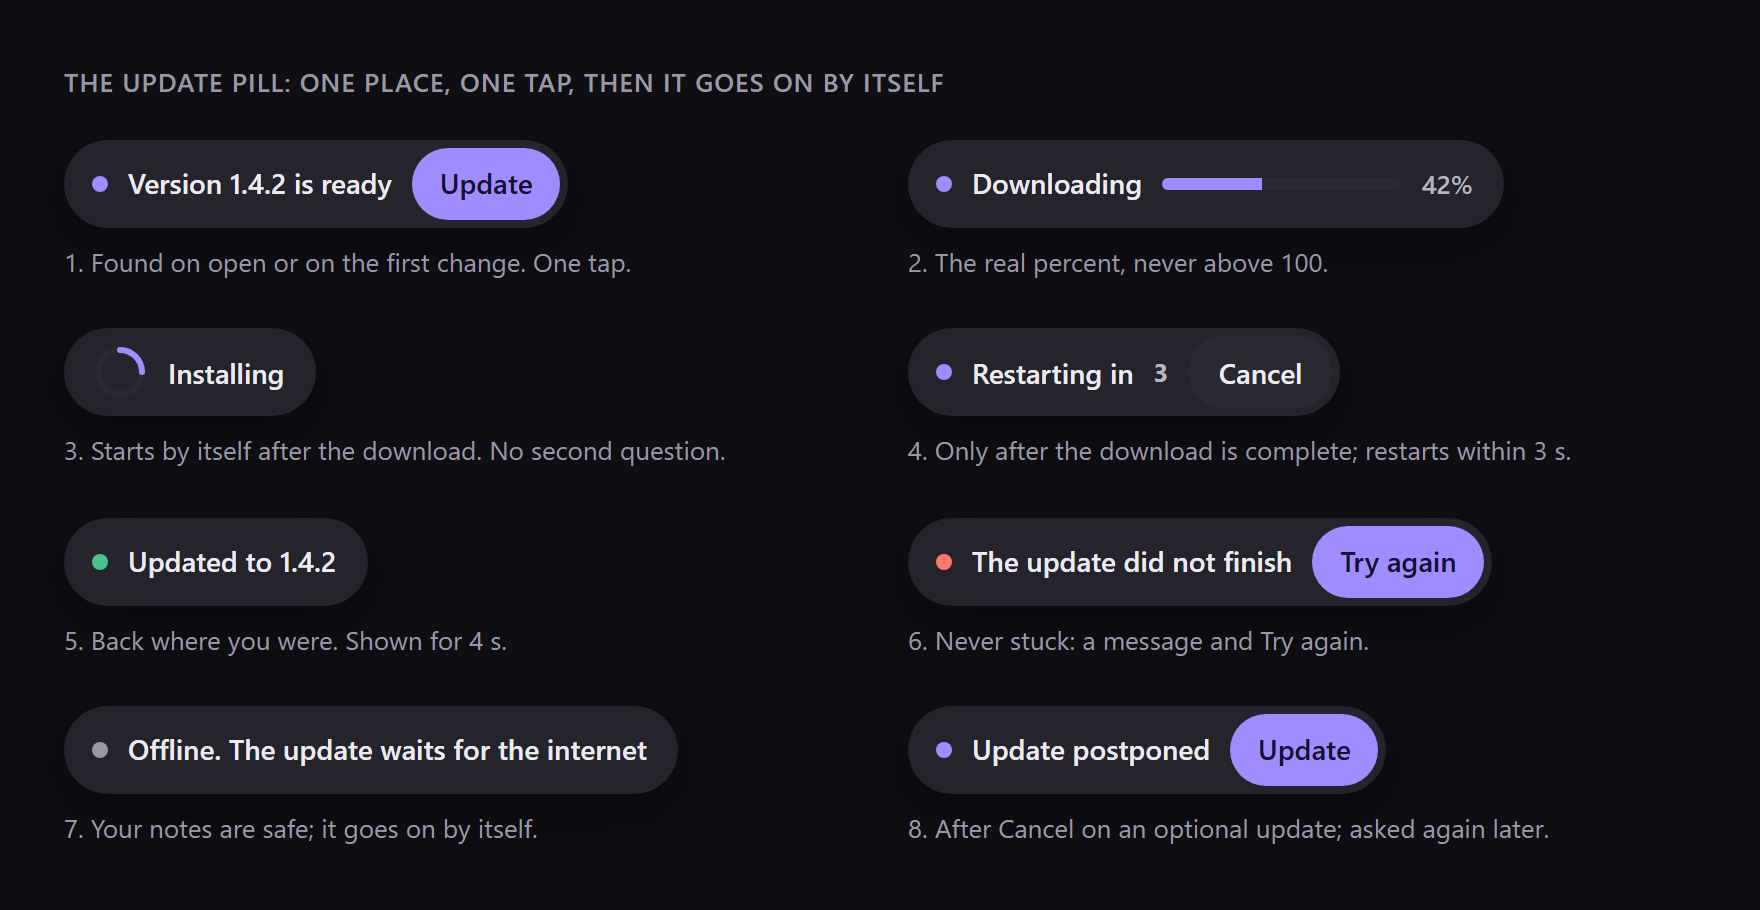
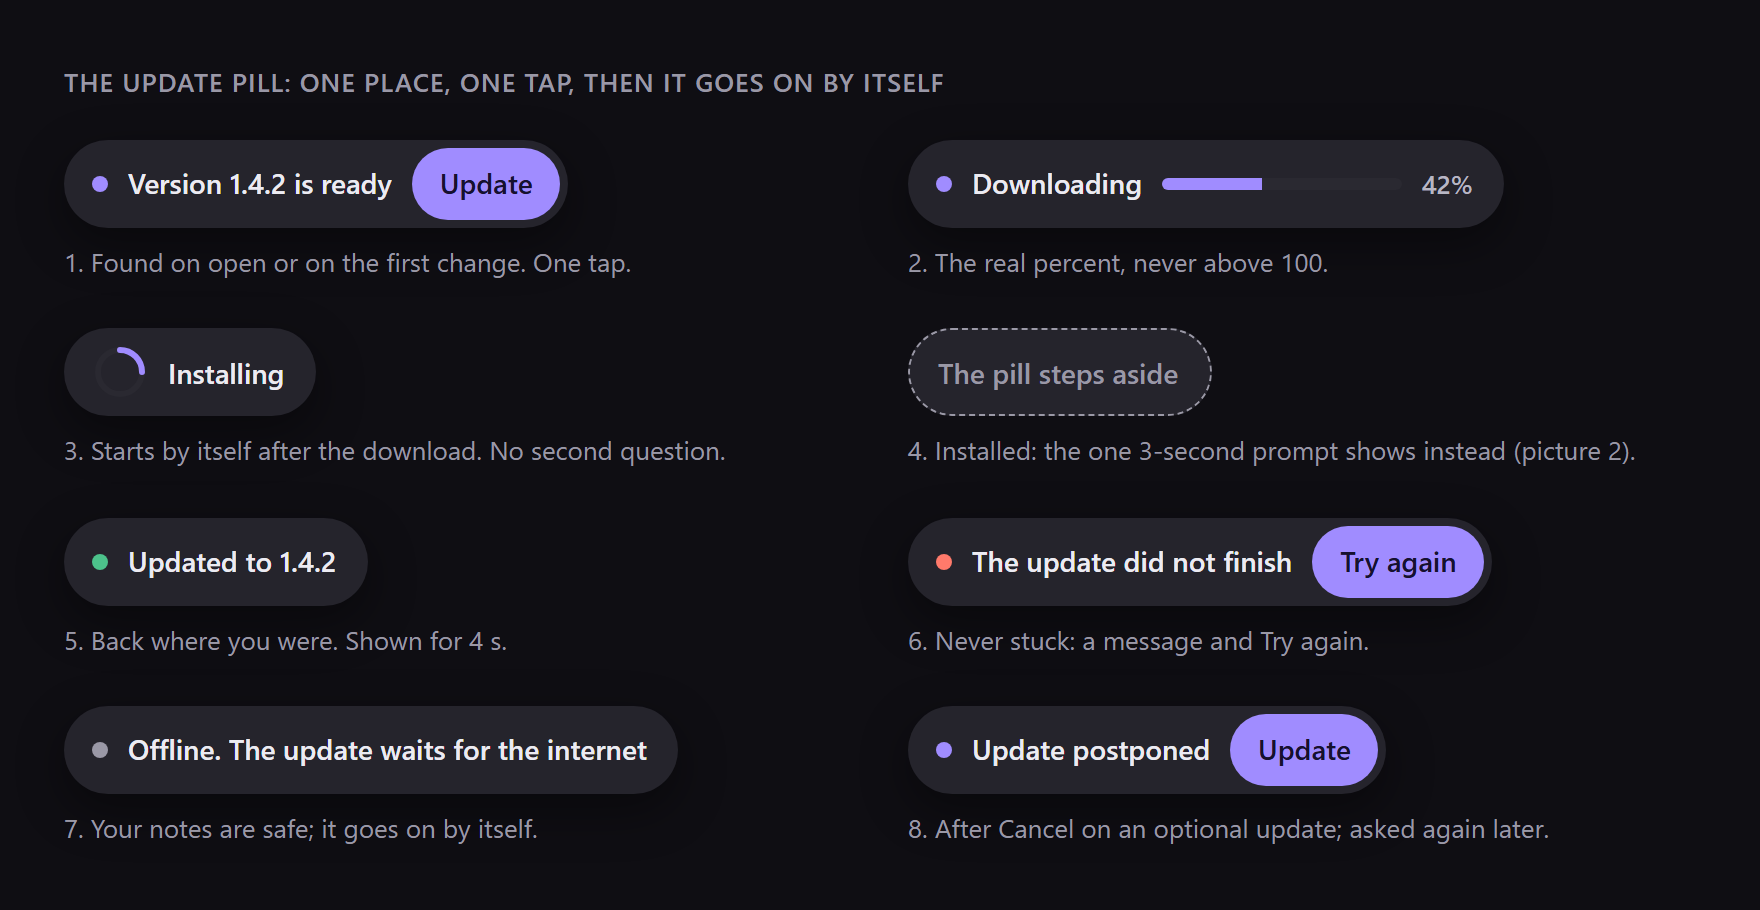
U0b review fixes: earlier spec items kept or replaced, one Restarting prompt in the pictures, rows 17-22 appended, One place sidebar, short Limits

Changed region(s): [[0.5312, 0.3385, 0.7812, 0.4615], [0.5312, 0.4923, 0.9375, 0.5231]]

diff --git a/docs/mockups/update-v3/update-v3.html b/docs/mockups/update-v3/update-v3.html
@@ -360,8 +360,8 @@
           <p class="cap">3. Starts by itself after the download. No second question.</p>
         </div>
         <div>
-          <span class="pill"><span class="dot"></span>Restarting in <b class="num">3</b><button class="btn t">Cancel</button></span>
-          <p class="cap">4. Only after the download is complete; restarts within 3 s.</p>
+          <span class="pill solo" style="box-shadow: none; border: 1px dashed var(--muted); color: var(--muted)">The pill steps aside</span>
+          <p class="cap">4. Installed: the one 3-second prompt shows instead (picture 2).</p>
         </div>
         <div>
           <span class="pill solo"><span class="dot ok"></span>Updated to 1.4.2</span>

diff --git a/docs/features/update-v2.md b/docs/features/update-v2.md
@@ -35,7 +35,7 @@ Each rule is one short line; the detail is in the scenarios.
 **Always true**
 
 - **Check often.** The app checks when it opens and on your first change.
-- **One place.** The pill offers the download; one tap starts it.
+- **One place.** The pill (sidebar place on iPad and PC) offers the download; one tap.
 - **Installs itself.** After the download it installs at once, no second question.
 - **Three seconds.** "Restarting" shows a 3-second timer with Cancel, then restarts.
 - **Same place.** After the restart you are on the same page and scroll place.
@@ -44,7 +44,7 @@ Each rule is one short line; the detail is in the scenarios.
 - **Not while writing.** The prompt waits for a pause in writing or drawing.
 - **Settings first page.** Update and the version sit at the top of Settings.
 - **Real numbers.** The download shows its real percent, never above 100.
-- **Fast.** From tap to the new version in under 30 s on a normal line.
+- **Fast.** From tap to the new version in under 30 s (our proposal).
 
 **Must never happen**
 
@@ -59,15 +59,15 @@ Each rule is one short line; the detail is in the scenarios.
 
 **Limits**
 
-- No server or Supabase change; the version file stays a static file on the host.
-- No restart while a save is still running; it waits up to 5 s, then says so.
+- No server or Supabase change; the version file stays static.
+- No restart during a save; waits up to 5 s, then says so.
 - Offline: the update waits for the internet; your notes stay usable.
 
 ## Scenarios
 
 What happens, not where to tap. Values from the owner's facts of 22 Nov 2026 (phase-pc-1.md section 18).
 
-- **S1, the plain case (optional update).** Given the owner opens the app on the iPad after a release, when the pill says the new version is ready and the owner taps Update, then the download fills to 100%, it installs by itself, "Restarting in 3" counts down, the app restarts on the same page and says "Updated to" the new version. Asked once only. (UP-N1, UP-N2, UP-N3)
+- **S1, the plain case (optional update).** Given the owner opens the app on the iPad after a release, when the pill says the new version is ready and the owner taps Update, then the download fills to 100%, it installs by itself, the one 3-second prompt counts down, the app restarts on the same page and says "Updated to" the new version. Asked once only. (UP-N1, UP-N2, UP-N3)
 - **S2, a required update.** Given a release that changes how notes are stored, when the app finds it, then changes are paused (reading still works), the download runs, the same 3-second prompt restarts the app, and editing works again after. Cancel only stops the countdown; changes stay paused. (UP-N8)
 - **S3, the thing that goes wrong (the owner's loop, on a slow line).** Given the iPad on a slow line, when the update downloads, then "Restarting" never shows before the download is complete; if the restart does not happen within 3 s, the pill says "The update did not finish" with Try again; Try again finishes it, with no loop. (UP-N2, UP-N6)
 - **S4, after the update.** Given the update has installed, when the owner closes the app from the app switcher and opens it again, then no download starts and Settings says "Up to date" with the new version. (UP-N4, UP-N5)
@@ -146,6 +146,12 @@ S1 to S7 pass on chromium and ipad-webkit, 20 of 20; U0a's tests pass without `t
 | 14  | The 3-second prompt and the Settings pictures look right.                                       |
 | 15  | The version shows as a number like 1.4.2 (or: keep the short code abc1234).                     |
 | 16  | Design and quality: the check list in the bottom layer is complete.                             |
+| 17  | Row 4 choice: A (my pick) installs by itself; B an Install button after the download.           |
+| 18  | After the restart I am on the same page and scroll place.                                       |
+| 19  | The download shows its real percent, never above 100.                                           |
+| 20  | "Fast" means under 30 s from tap to new version (our proposal for your "fast").                 |
+| 21  | Limits: no server change; no restart during a save; offline waits, notes usable.                |
+| 22  | The earlier spec's states, notice details and iPad check are kept or replaced as listed below.  |
 
 ---
 
@@ -241,6 +247,23 @@ Today (`vite.config.ts:36-51`, `src/app/updates.ts:128-136`): a build is "requir
 | Version line                                                     | `settings/UpdateLine.tsx` (U0a)                      | grows into the Update card             |
 | Other-tab apply message                                          | `app/updateChannel.ts:16`                            | kept; also carries U11                 |
 | Test hook `learning-notes:test-required-update`                  | `main.tsx:203`                                       | kept (e2e)                             |
+
+### Kept from the earlier spec, or replaced
+
+| Earlier item                                                                                                                                   | Now                                                                                  |
+| ---------------------------------------------------------------------------------------------------------------------------------------------- | ------------------------------------------------------------------------------------ |
+| States, error: download, install and save failed, each with plain words, Try again and (Professional) "Copy details"                           | kept; also UP-03 for the restart                                                     |
+| States, phone: same column, 16 px side margins, buttons stack full width                                                                       | kept for the prompt and the pause notice                                             |
+| States, dark: tokens only; ring and bar keep 3:1 contrast                                                                                      | kept (pictures, dark)                                                                |
+| "About N seconds" from the download size and measured speed; hidden when unknown                                                               | kept on the pill while downloading and on the Settings card                          |
+| Full-screen notice, 5 s countdown, sizes and motion (old "Sizes, spacing, motion")                                                             | replaced by the 3-second prompt and paused edits (confirm row 7)                     |
+| Screenshots: notice countdown, downloading, paused, installing, failed, offline × light/dark × iPad both ways/phone/PC                         | kept, applied to pill states 1 to 8, the prompt and the Settings card                |
+| Owner iPad check, 3 steps (Check for updates; "Pretend a must-have update" test button in Settings › Advanced, preview only; Wi-Fi off and on) | kept, with Check now on Settings' first page (S5); scenario numbers S1, S2, S7       |
+| Decision: offline must-have never locks you out; small note, countdown resumes online                                                          | kept (U10, S7)                                                                       |
+| Decision: a number that only goes up (`level`) replaces "newest commit says required"                                                          | kept (slice 10 rule 3)                                                               |
+| Decision: other tab treated as must-have without a network check                                                                               | kept (U11)                                                                           |
+| Decision: unlock id `about.updateDetails` still proposed; until agreed, U15 uses `about.version`                                               | kept, still open                                                                     |
+| Decision: "Not now" during the countdown, "Cancel" during the download, both lead to Paused; app stays blocked                                 | replaced: Cancel on the one 3-second prompt (S2, S6); required stays blocked (UP-N8) |
 
 ### Not in this part
 
